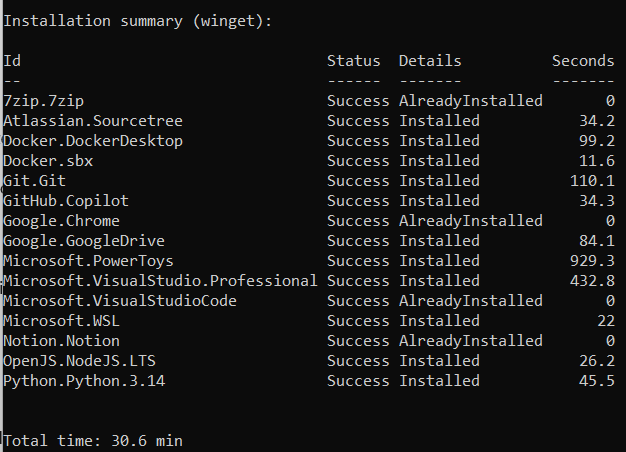
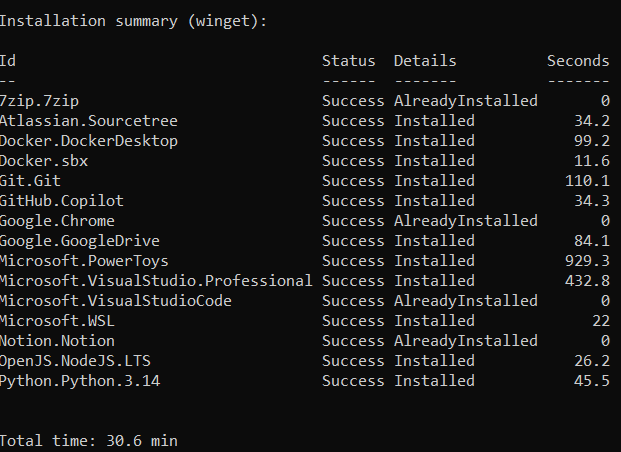
Add Slack to default package list

diff --git a/README.md b/README.md
@@ -26,6 +26,7 @@ Default package source is Winget.
 - Docker.DockerDesktop
 - Docker.sbx
 - GitHub.cli
+- SlackTechnologies.Slack
 
 ## Behavior
 
